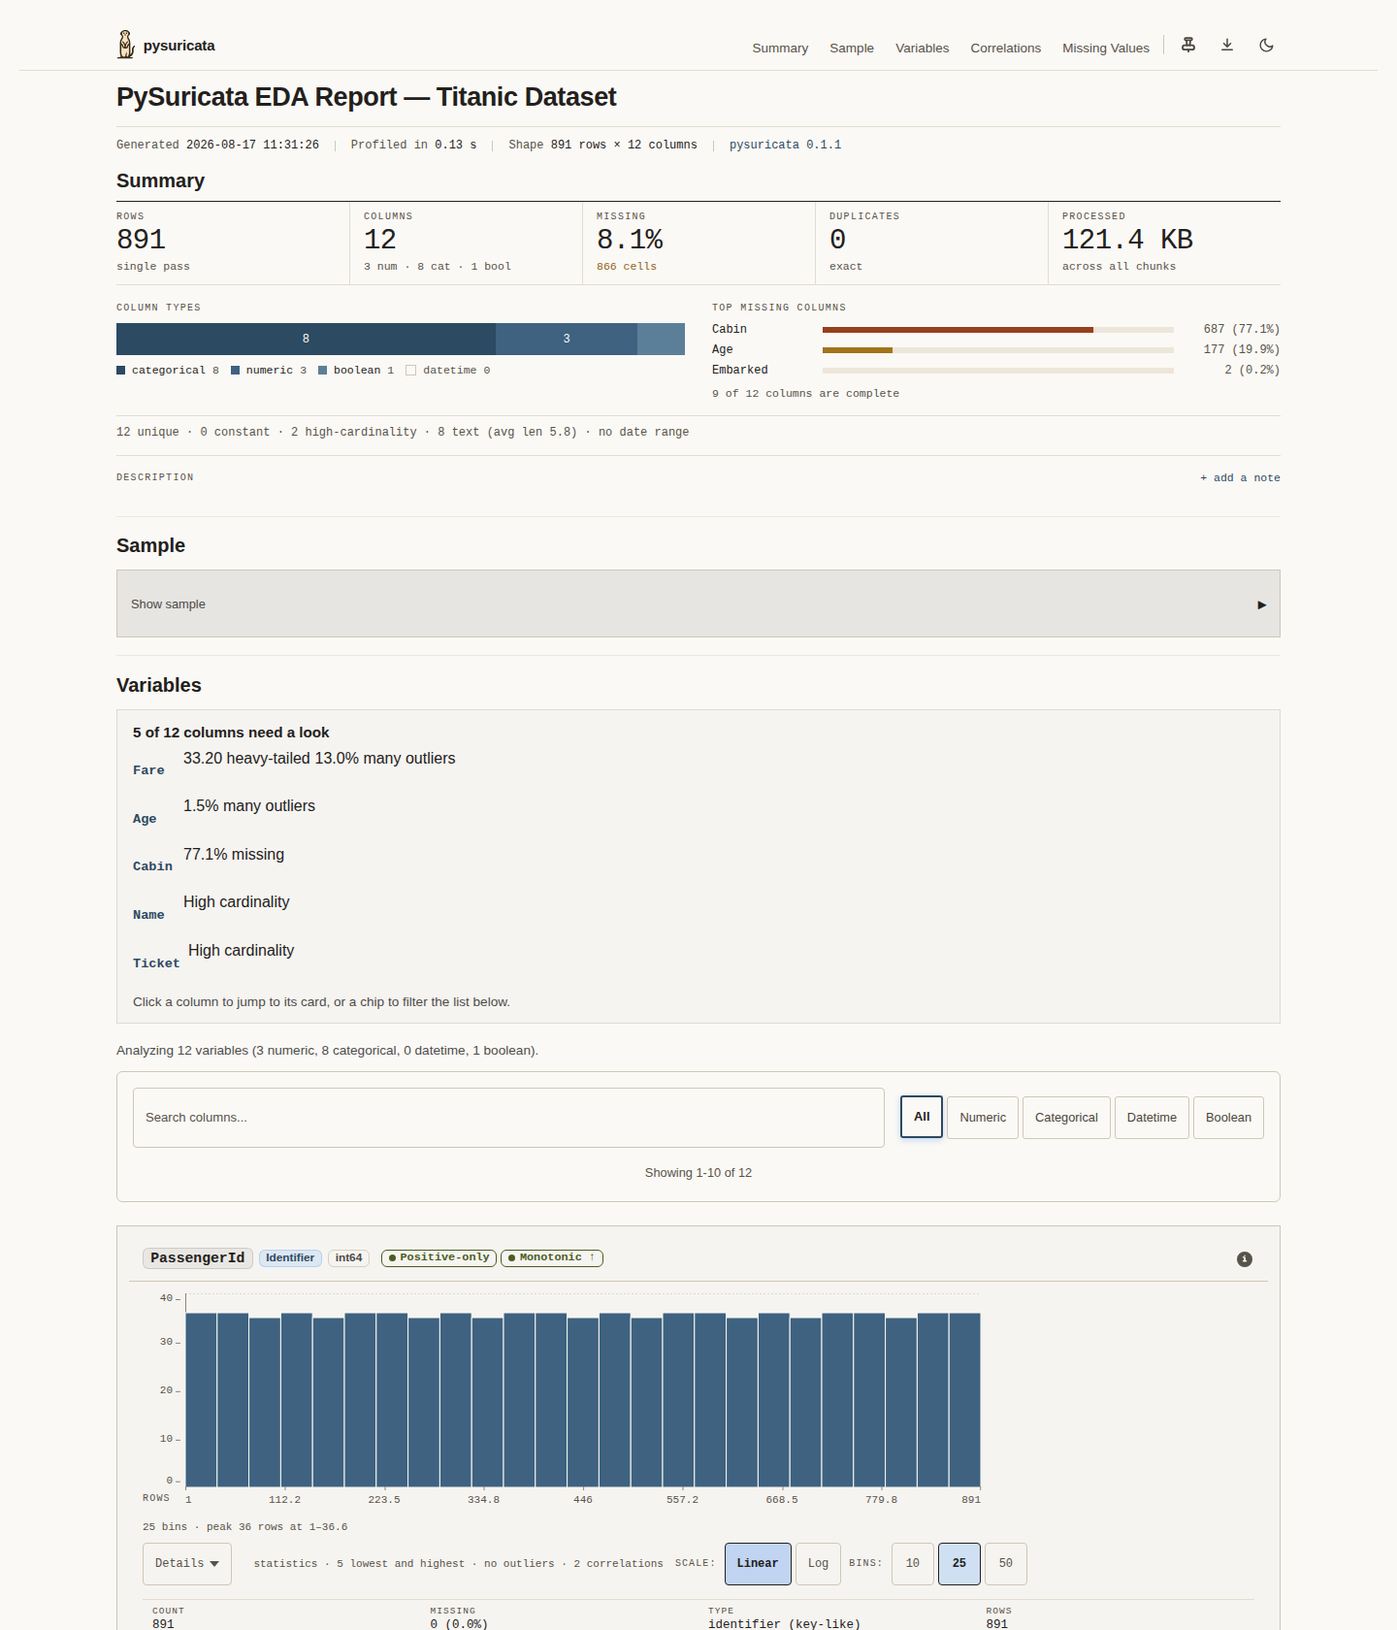
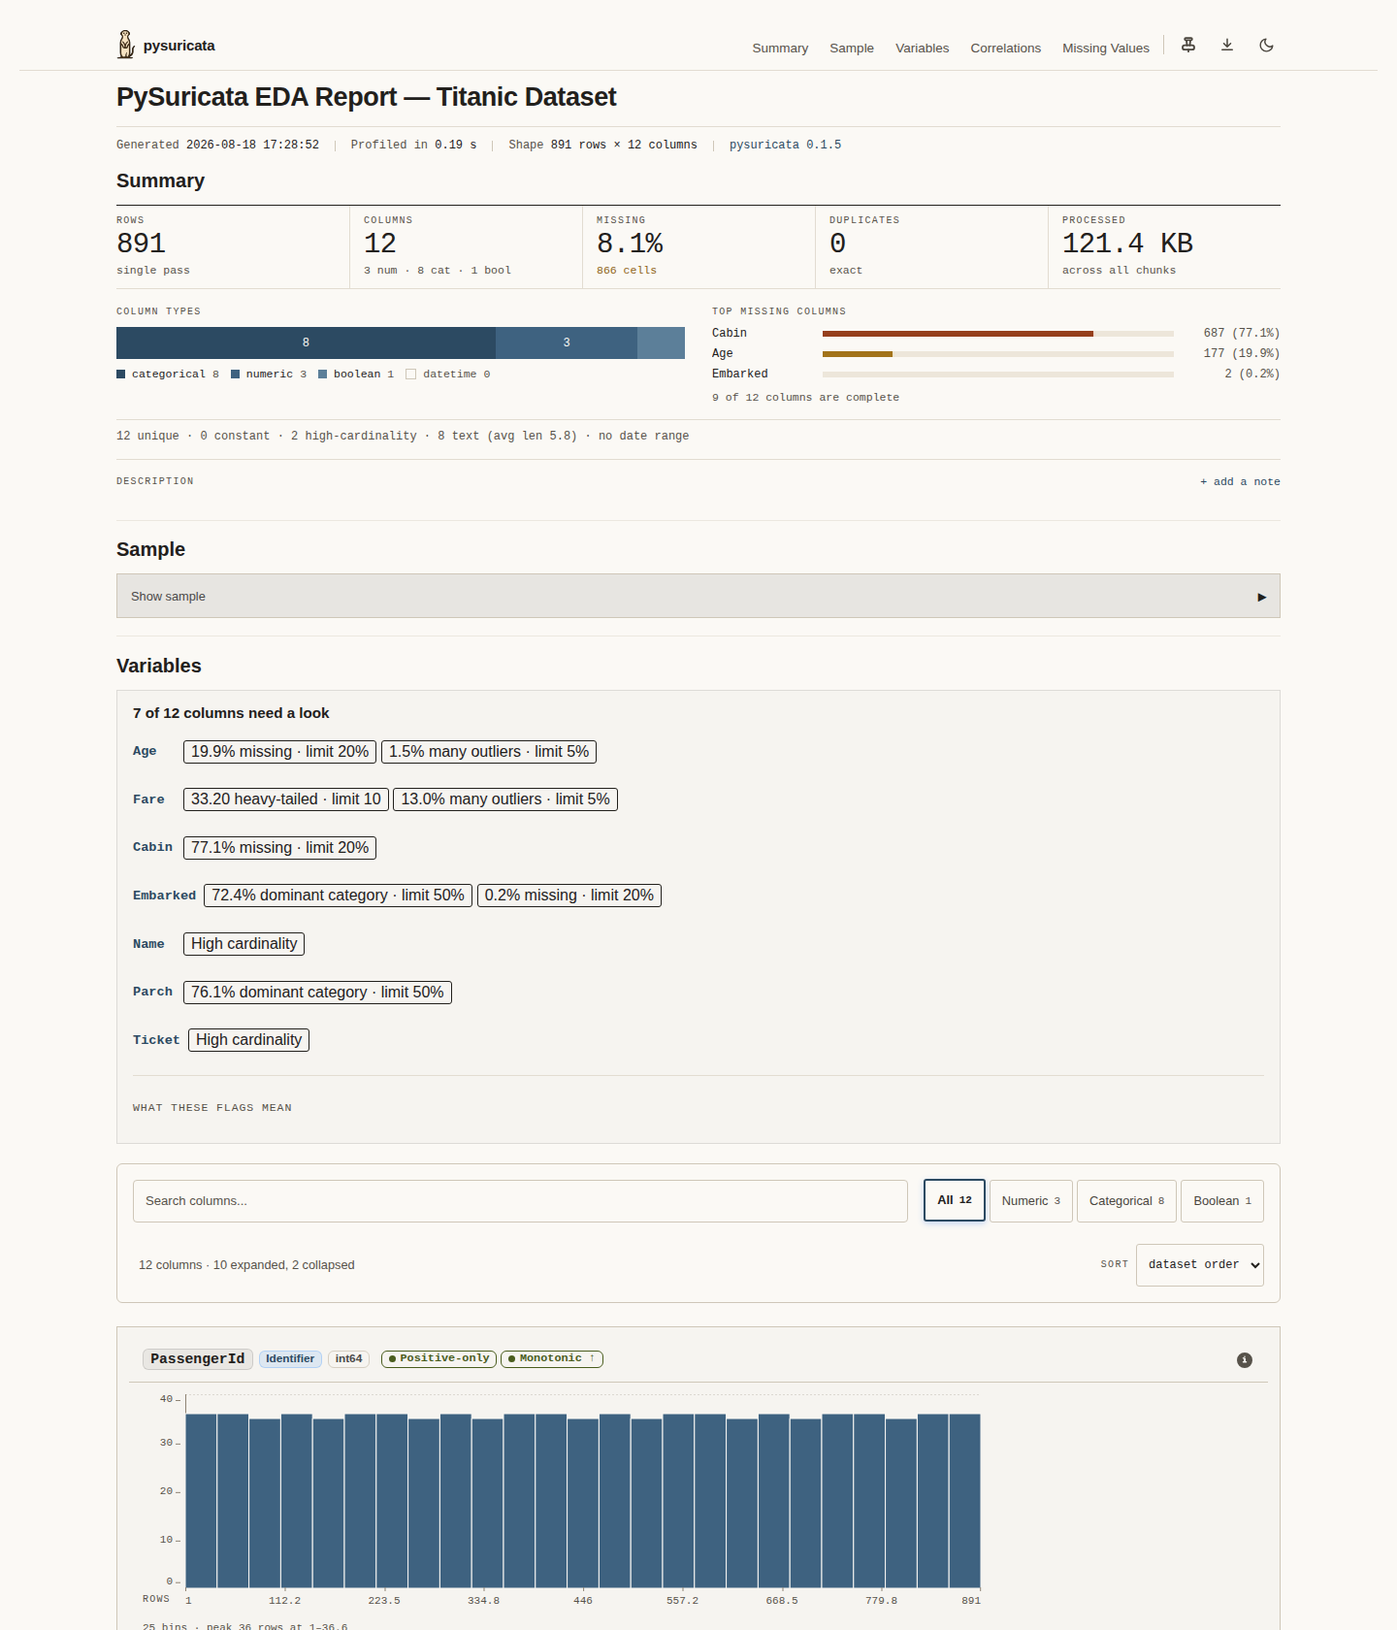
One measured number for the column limit, and a fresh screenshot (#334)
Three figures were circulating for one fact: 3 MB of memory per column across
seven docs pages, 1.5 MB in web/README.md, 1.3 MB in the README.
`python -m benchmarks.columns`, the harness written for exactly this claim
(#207), puts it at 1.2 MB of resident memory and 59 KB of report per column,
taken as the slope from 100 columns to 600 at 20,000 rows. A 20,000 x 600 frame
costs 797 MB and emits a 35 MB report; a 1,000,000 x 14 frame holds 1.2x the
cells for 52 MB. Every copy now carries the measured number, against the
row-scaled control the same run measured rather than a shape from another
session.

The claim moved out of the README's opening pitch into a section of its own. A
limit stated in passing at the end of a sales paragraph is a limit nobody reads.

The screenshot was captured at 0.1.1 and had sat through the threshold chips,
the flag legend and the sort control landing on the variables list, so the
picture advertising the project showed a report the code no longer emits.
Recaptured at 0.1.5, with alt text that no longer hardcodes how many columns the
Titanic frame happens to flag.

Also: no em dashes left in the README, and the docs landing page links the
browser demo, which it had never mentioned.

diff --git a/README.md b/README.md
@@ -14,7 +14,7 @@
 
   <h3>Exploratory Data Analysis for Python, Built on Streaming Algorithms</h3>
 
-  <p><strong>One pass over your data. A self-contained HTML report, a versioned JSON payload, or a CI gate — from the same pass.</strong></p>
+  <p><strong>One pass over your data. A self-contained HTML report, a versioned JSON payload, or a CI gate: all from the same pass.</strong></p>
 
   <p>
     <a href="https://pysuricata.pages.dev"><strong>Live Demo</strong></a> •
@@ -29,11 +29,11 @@
 ## See it before you install it
 
 <div align="center">
-  <img src="https://raw.githubusercontent.com/alvarodiez20/pysuricata/main/docs/assets/report-screenshot.png" alt="A PySuricata report: the dataset summary, the five columns that need a look, and a numeric column card with its histogram and bin controls" width="900">
+  <img src="https://raw.githubusercontent.com/alvarodiez20/pysuricata/main/docs/assets/report-screenshot.png" alt="A PySuricata report: the dataset summary, the columns flagged as needing a look with the threshold each one crossed, and a numeric column card with its histogram and bin controls" width="900">
 </div>
 
-- **[Run it in your browser →](https://pysuricata.pages.dev)** — drop a CSV, Parquet file or Excel workbook and get the real report back. The profiler is compiled to WebAssembly and runs in the page, so **nothing is uploaded**.
-- **[Open a finished report →](https://alvarodiez20.github.io/pysuricata/assets/titanic_report.html)** — the Titanic dataset, as PySuricata renders it.
+- **[Run it in your browser →](https://pysuricata.pages.dev)**: drop a CSV, Parquet file or Excel workbook and get the real report back. The profiler is compiled to WebAssembly and runs in the page, so **nothing is uploaded**.
+- **[Open a finished report →](https://alvarodiez20.github.io/pysuricata/assets/titanic_report.html)**: the Titanic dataset, as PySuricata renders it.
 
 ## Quick Start
 
@@ -59,11 +59,11 @@ uv add "pysuricata[system]"   # psutil-backed memory reporting
 ## Why PySuricata
 
 **It reads your data once.**
-Data is processed in chunks using streaming algorithms, so memory usage stays bounded **in the number of rows** — a million rows costs no more than twenty thousand. It is *not* bounded in the number of columns: each column keeps its own sketches for the whole run and gets its own card in the report, so both memory and report size grow linearly with the width of the frame. Measured at 20,000 rows: **~1.3 MB of RSS and ~59 KB of report per column**, so a 600-column frame needs roughly 850 MB. See [#207](https://github.com/alvarodiez20/pysuricata/issues/207).
+Data is processed in chunks using streaming algorithms, so memory usage stays bounded **in the number of rows**: a million rows costs no more than twenty thousand. It is *not* bounded in the number of columns, which is a real limit rather than a footnote. See [Where the bound stops holding](#where-the-bound-stops-holding).
 
 **It is not only a report.** The same pass gives three outputs: `profile()` for the HTML, `summarize()` for a versioned JSON payload with no markup in the way, and `pysuricata check` for a CI gate that exits non-zero when a threshold is crossed. Most profilers give you the first and stop.
 
-**Arrow is the boundary, not pandas.** Anything exporting the Arrow C stream interface (`__arrow_c_stream__`) is profiled without materialising it, whatever library produced it — and Arrow IPC is what R, Julia and Rust write, so a file from another runtime is read directly.
+**Arrow is the boundary, not pandas.** Anything exporting the Arrow C stream interface (`__arrow_c_stream__`) is profiled without materialising it, whatever library produced it. Arrow IPC is what R, Julia and Rust write, so a file from another runtime is read directly.
 
 **Approximations say so.** Quantiles, distinct counts and duplicate estimates come from sketches. The report labels them and carries their error bound rather than printing an estimate as an exact integer.
 
@@ -71,21 +71,21 @@ Data is processed in chunks using streaming algorithms, so memory usage stays bo
 
 ### Everything else
 
-- **Streaming architecture** — Data is processed in configurable chunks, keeping memory bounded in rows (not in columns — see above). Useful for datasets with more rows than fit in RAM.
-- **Pandas and Polars** — Works natively with `pandas.DataFrame`, `polars.DataFrame` and `polars.LazyFrame`, plus Parquet files, Arrow IPC files (`.arrow`, `.feather`, `.ipc`), DuckDB relations and Arrow batches.
-- **Configurable** — Control chunk size, sample size, correlations and more with keyword options, a `preset=`, or a `ProfileConfig`.
-- **Reproducible** — Seeded random sampling produces deterministic results across runs.
-- **Typed** — Ships `py.typed`; `summarize()` returns a payload carrying a `schema_version`.
-- **CLI tool** — `profile`, `summarize` and `check` from the command line.
+- **Streaming architecture**: data is processed in configurable chunks, keeping memory bounded in rows, though not in columns (see above). Useful for datasets with more rows than fit in RAM.
+- **Pandas and Polars**: works natively with `pandas.DataFrame`, `polars.DataFrame` and `polars.LazyFrame`, plus Parquet files, Arrow IPC files (`.arrow`, `.feather`, `.ipc`), DuckDB relations and Arrow batches.
+- **Configurable**: control chunk size, sample size, correlations and more with keyword options, a `preset=`, or a `ProfileConfig`.
+- **Reproducible**: seeded random sampling produces deterministic results across runs.
+- **Typed**: ships `py.typed`; `summarize()` returns a payload carrying a `schema_version`.
+- **CLI tool**: `profile`, `summarize` and `check` from the command line.
 
 ## What's in a Report
 
 Each column is analyzed based on its type:
 
-- **Numeric** — Mean, variance, skewness, kurtosis, quantiles, histogram, outlier detection (IQR, MAD, z-score), correlations
-- **Categorical** — Top values, distinct count, entropy, Gini impurity, string length statistics
-- **DateTime** — Temporal range, hour/day/month distributions, monotonicity detection
-- **Boolean** — True/false counts and ratios, entropy
+- **Numeric**: mean, variance, skewness, kurtosis, quantiles, histogram, outlier detection (IQR, MAD, z-score), correlations
+- **Categorical**: top values, distinct count, entropy, Gini impurity, string length statistics
+- **DateTime**: temporal range, hour/day/month distributions, monotonicity detection
+- **Boolean**: true/false counts and ratios, entropy
 
 Plus dataset-level metrics: row/column counts, memory usage, missing value percentages, and duplicate row estimates.
 
@@ -141,7 +141,7 @@ report = profile(read_in_chunks())
 report.save_html("large_report.html")
 ```
 
-A Parquet path, an Arrow IPC file, a DuckDB relation or an Arrow source needs no generator at all — hand it over and it is read a batch at a time, without ever existing as one frame:
+A Parquet path, an Arrow IPC file, a DuckDB relation or an Arrow source needs no generator at all. Hand it over and it is read a batch at a time, without ever existing as one frame:
 
 ```python
 import duckdb
@@ -161,7 +161,19 @@ report = profile(relation)
 
 Measured on a 4,000,000 × 6 frame written as a 180 MB Parquet file, above a 118 MB bare-import floor: **307 MB** for `profile(path)` against **581 MB** for `profile(pd.read_parquet(path))`.
 
-The readers behind that — `stream_parquet`, `stream_ipc`, `stream_arrow`, `stream_duckdb` — are exported from `pysuricata.sources` for when you want the batches rather than a profile.
+The readers behind that (`stream_parquet`, `stream_ipc`, `stream_arrow` and `stream_duckdb`) are exported from `pysuricata.sources` for when you want the batches rather than a profile.
+
+### Where the bound stops holding
+
+Bounded memory is a claim about **rows**, not about columns. Each column keeps its own
+sketches for the whole run and gets its own card in the report, so both memory and report
+size grow linearly with the width of the frame.
+
+Measured with `python -m benchmarks.columns` at 20,000 rows, taking the slope from 100
+columns to 600: **1.2 MB of resident memory and 59 KB of report per column**. A
+20,000 x 600 frame costs 797 MB and emits a 35 MB report, while a 1,000,000 x 14 frame
+holds 1.2x the cells for 52 MB. Wide frames are the axis the streaming design does not
+yet cover, tracked in [#207](https://github.com/alvarodiez20/pysuricata/issues/207).
 
 ## Comparing Two Datasets
 
@@ -178,7 +190,7 @@ diff.columns["fare"].median_shift_sigma # in baseline standard deviations
 diff.to_dict()                          # JSON-safe, three sections
 ```
 
-Every delta, whether or not it crosses a threshold — it is a description, not a verdict. `pysuricata check` is the same arithmetic with a threshold and an exit code.
+It reports every delta, whether or not it crosses a threshold, because it is a description and not a verdict. `pysuricata check` is the same arithmetic with a threshold and an exit code.
 
 ## Configuration
 
@@ -197,7 +209,7 @@ report = profile(
 )
 ```
 
-Or start from a preset — `"fast"` or `"thorough"`:
+Or start from a preset, `"fast"` or `"thorough"`:
 
 ```python
 from pysuricata import profile
@@ -235,7 +247,7 @@ pysuricata check data.csv --write-baseline baseline.json
 pysuricata check data.csv --baseline baseline.json --max-missing-pct 5
 ```
 
-`check` exits `0` on pass, `1` when a threshold is crossed, and `2` when the check could not run — so it drops into CI without a wrapper.
+`check` exits `0` on pass, `1` when a threshold is crossed, and `2` when the check could not run, so it drops into CI without a wrapper.
 
 ## How It Works
 
@@ -287,9 +299,9 @@ MIT License. See [LICENSE](LICENSE) for details.
 
 Built using algorithms from:
 
-- Welford, B.P. (1962) — Streaming moments
-- Pébay, P. (2008) — Parallel merging of moments
-- Bar-Yossef, Z. et al. (2002) — KMV distinct count estimation
-- Misra, J. & Gries, D. (1982) — Streaming heavy hitters
+- Welford, B.P. (1962): streaming moments
+- Pébay, P. (2008): parallel merging of moments
+- Bar-Yossef, Z. et al. (2002): KMV distinct count estimation
+- Misra, J. & Gries, D. (1982): streaming heavy hitters
 
-Named after **suricatas (meerkats)** — small, vigilant animals that work cooperatively and thrive in harsh environments with limited resources.
+Named after **suricatas (meerkats)**: small, vigilant animals that work cooperatively and thrive in harsh environments with limited resources.

diff --git a/CHANGELOG.md b/CHANGELOG.md
@@ -16,6 +16,27 @@ quoted when both sides were measured in the same round-robin run.
 
 ### Fixed
 
+- **The per-column memory figure in the README and seven docs pages was wrong,
+  and the README screenshot was two releases stale.** Three different numbers
+  were in circulation for the same fact: 3 MB per column across the docs, 1.5 MB
+  in `web/README.md`, 1.3 MB in the README. `python -m benchmarks.columns`, the
+  harness written for exactly this claim, puts it at **1.2 MB of resident memory
+  and 59 KB of report per column** measured as the slope from 100 columns to 600
+  at 20,000 rows. A 20,000 x 600 frame costs 797 MB and emits a 35 MB report;
+  a 1,000,000 x 14 frame holds 1.2x the cells for 52 MB. Every copy of the
+  figure now says the measured one, and the claim moved out of the README's
+  opening pitch into a section of its own, since a limit stated in passing in a
+  sales paragraph is a limit nobody reads.
+
+  The README screenshot was captured at 0.1.1 and predated the threshold chips,
+  the flag legend and the sort control on the variables list, so the picture
+  advertising the project showed a report it no longer emits. Recaptured at
+  0.1.5 with `scripts/capture_report_screenshot.py`, and its alt text no longer
+  hardcodes how many columns the Titanic frame happens to flag.
+
+  The README also has no em dashes left in it, and the docs landing page now
+  links the browser demo, which it had never mentioned.
+
 - **The demo page's hero and prose sit on one measure, with room around them.**
   The reading column is one 720px grid track, but the blocks inside it carried
   caps of their own — 20ch on the h1, 52ch on the lede, 56ch on the closing note

diff --git a/docs/index.md b/docs/index.md
@@ -16,7 +16,17 @@
 
 PySuricata generates self-contained HTML reports for pandas and polars DataFrames. It processes data in chunks using streaming algorithms, so memory usage stays bounded regardless of dataset size.
 
+[**Try it in your browser**](https://pysuricata.pages.dev) with no install: drop a CSV, Parquet file or Excel workbook and get the real report back. The profiler is compiled to WebAssembly and runs in the page, so nothing is uploaded.
+
 <div class="grid cards" markdown>
+
+-   **Live Demo**
+
+    ---
+
+    Profile your own file in a browser tab. No install, no upload.
+
+    [:octicons-arrow-right-24: Open the Demo](https://pysuricata.pages.dev)
 
 -   **Quick Start**
 
@@ -128,8 +138,9 @@ PySuricata reads data in chunks and updates lightweight accumulators for each co
 | **Accuracy** | Exact for moments (mean, variance, skewness, kurtosis); approximate with known error bounds for distinct counts and top-k |
 | **Mergeability** | Accumulators can be merged across chunks or machines |
 
-Memory is bounded **in rows**. It is not bounded in columns — state is per
-column at roughly 3 MB each — which is a known limit, tracked in
+Memory is bounded **in rows**. It is not bounded in columns: state is per
+column at roughly 1.2 MB each, and a 20,000 x 600 frame costs 797 MB against
+52 MB for a 1,000,000 x 14 one on more cells. That is a known limit, tracked in
 [#207](https://github.com/alvarodiez20/pysuricata/issues/207).
 
 Reports include per-column statistics, histograms, correlation chips, missing value analysis, outlier detection, and more — all computed during the single streaming pass.

diff --git a/docs/performance.md b/docs/performance.md
@@ -196,8 +196,9 @@ python -m benchmarks.kernels                            # per-kernel timings + m
   \(T(n) \approx k \cdot n\).
 - **Memory is flat in rows.** Four float64 columns cost the same above the
   import floor at 500,000 rows and at 8,400,000.
-- **Memory is *not* flat in columns.** It grows at roughly 3 MB per column, so a
-  20,000 x 600 frame costs far more than a 5,000,000 x 8 one on less data. This
+- **Memory is *not* flat in columns.** It grows at roughly 1.2 MB per column, so
+  a 20,000 x 600 frame costs 797 MB against 52 MB for a 1,000,000 x 14 one on
+  more cells. This
   is a known limit, tracked in
   [#207](https://github.com/alvarodiez20/pysuricata/issues/207).
 - **`summarize()` skips rendering entirely**, so it is the faster path whenever

diff --git a/docs/faq.md b/docs/faq.md
@@ -138,8 +138,9 @@ Memory usage depends on configuration, not dataset size. The main factors are:
 Processing a 10 GB dataset uses roughly the same memory as processing a 100 MB
 one — **in rows**.
 
-In columns it is not bounded: state is per column, at roughly 3 MB each, so a
-20,000 x 600 frame costs far more than a 5,000,000 x 8 one on less data. That is
+In columns it is not bounded: state is per column, at roughly 1.2 MB each, so a
+20,000 x 600 frame costs 797 MB against 52 MB for a 1,000,000 x 14 one on more
+cells. That is
 a known limit, tracked in
 [#207](https://github.com/alvarodiez20/pysuricata/issues/207), and worth knowing
 before you point it at a very wide frame.

diff --git a/docs/why-pysuricata.md b/docs/why-pysuricata.md
@@ -338,8 +338,8 @@ existing as a frame. See [Arrow, Parquet and DuckDB](data-sources.md).
 Worth saying plainly, since the rest of this page is a case for the design.
 
 - **Memory is bounded in rows, not in columns.** State is per column at roughly
-  3 MB each, so a 20,000 x 600 frame costs more than a 5,000,000 x 8 one on less
-  data. Tracked in
+  1.2 MB each, so a 20,000 x 600 frame costs 797 MB against 52 MB for a
+  1,000,000 x 14 one on more cells. Tracked in
   [#207](https://github.com/alvarodiez20/pysuricata/issues/207).
 - **Quantiles come from a sample.** Exact below the reservoir size, approximate
   above it, with the error bound published rather than hidden.

diff --git a/docs/architecture.md b/docs/architecture.md
@@ -255,7 +255,7 @@ is why a gate and a diff cannot disagree about what a number means.
 - **A native core** — the accumulator boundary was prepared for a second
   implementation in Rust and measured at 0.97–1.01x, so the preparation cost
   nothing ([#44](https://github.com/alvarodiez20/pysuricata/issues/44))
-- **The column axis** — state is per column at roughly 3 MB each, so bounded
+- **The column axis** — state is per column at roughly 1.2 MB each, so bounded
   memory is a claim about rows and not yet about columns
   ([#207](https://github.com/alvarodiez20/pysuricata/issues/207))
 - **An HTML view for `compare()`**

diff --git a/docs/sequence-diagrams-complexity.md b/docs/sequence-diagrams-complexity.md
@@ -254,8 +254,8 @@ Total: **O(cols × (s + k))**. Nothing in that expression is the row count, whic
 is the whole claim — memory is flat in rows.
 
 It is **not** flat in columns. Multiplying by `cols` is not a rounding error: at
-roughly 3 MB per column, a 20,000 × 600 frame costs far more than a
-5,000,000 × 8 one on less data. That is a known limit, tracked in
+roughly 1.2 MB per column, a 20,000 × 600 frame costs 797 MB against 52 MB for
+a 1,000,000 × 14 one on more cells. That is a known limit, tracked in
 [#207](https://github.com/alvarodiez20/pysuricata/issues/207), and it is the
 honest reading of the table above.
 

diff --git a/docs/architecture-diagrams.md b/docs/architecture-diagrams.md
@@ -197,8 +197,8 @@ flowchart TD
 | **Total** | **O(n × cols + n × m²)** | **O(cols × s)** | — |
 
 Note the space column: every bound is **per column**. Memory is flat in rows and
-linear in columns, at roughly 3 MB each — which is why a 20,000 × 600 frame
-costs more than a 5,000,000 × 8 one on less data
+linear in columns, at roughly 1.2 MB each — which is why a 20,000 × 600 frame
+costs 797 MB against 52 MB for a 1,000,000 × 14 one on more cells
 ([#207](https://github.com/alvarodiez20/pysuricata/issues/207)).
 
 Report size follows the same axis: one card per column, so it grows with width

diff --git a/docs/quickstart.md b/docs/quickstart.md
@@ -364,7 +364,7 @@ card with its own SVG charts.
 - Hand over the path rather than a loaded frame, so the file streams
 - Reduce `chunk_size`
 - Reduce `numeric_sample_size` and `max_uniques`
-- Memory is bounded in rows but grows about 3 MB per column, so a very wide
+- Memory is bounded in rows but grows about 1.2 MB per column, so a very wide
   frame is the case to watch
   ([#207](https://github.com/alvarodiez20/pysuricata/issues/207))
 

diff --git a/web/README.md b/web/README.md
@@ -114,7 +114,7 @@ check that is not a browser.
 
 ## Guardrails
 
-Memory is bounded in rows, not in columns: roughly 1.5 MB of RAM and 66 KB of HTML
+Memory is bounded in rows, not in columns: roughly 1.2 MB of RAM and 59 KB of HTML
 per column. A wide frame exhausts a tab long before a tall one does, so the page
 refuses files above `MAX_COLUMNS` (250) with an explanation, and caps file size at
 600 MB (40 MB for workbooks, above).
